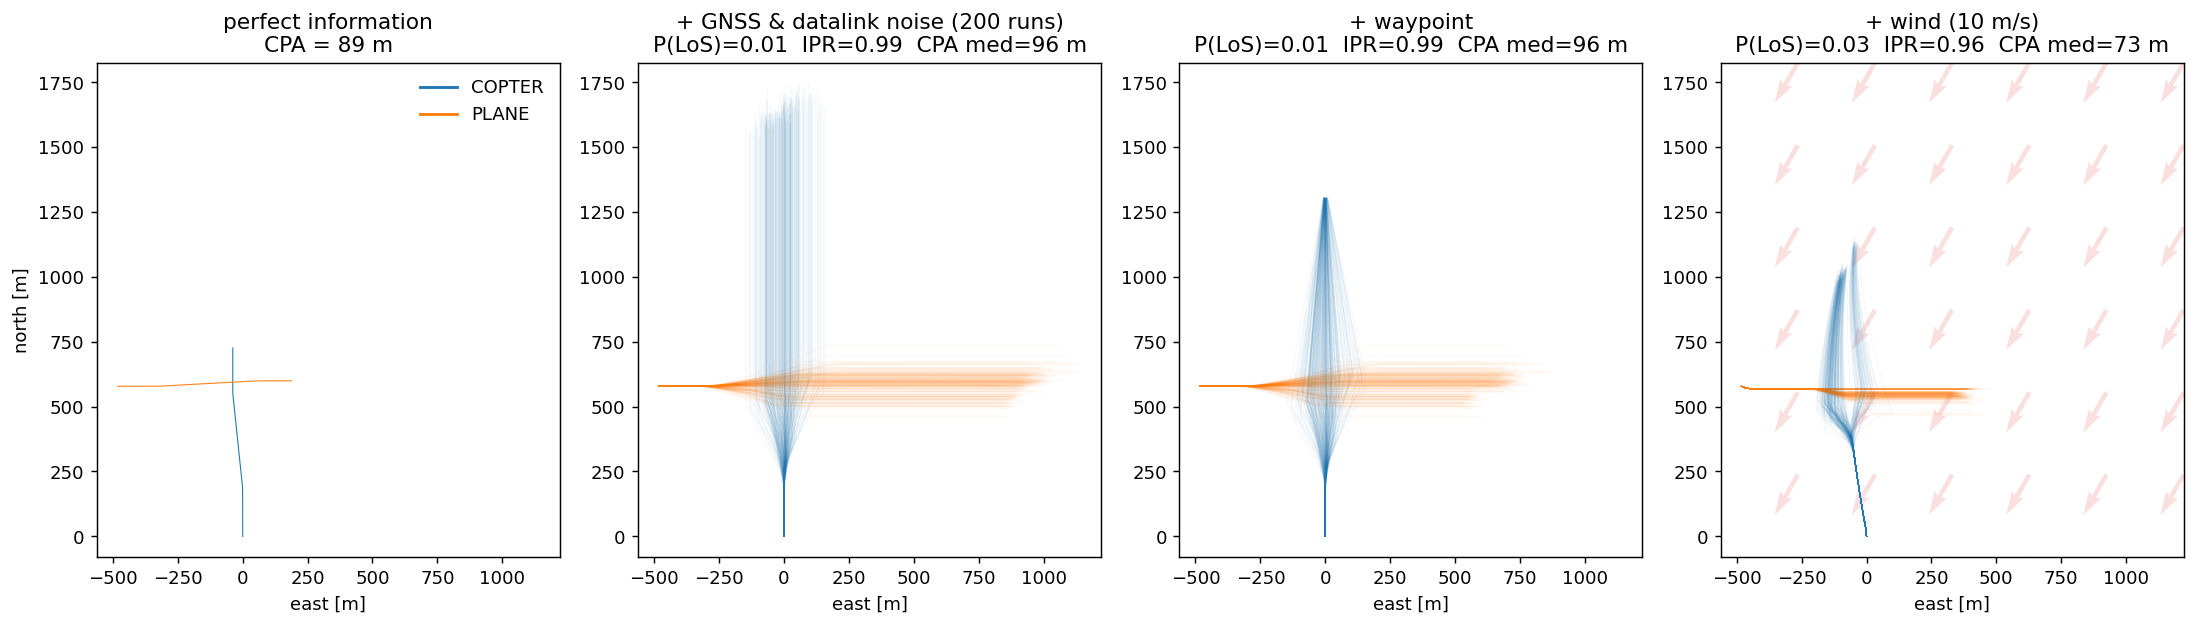
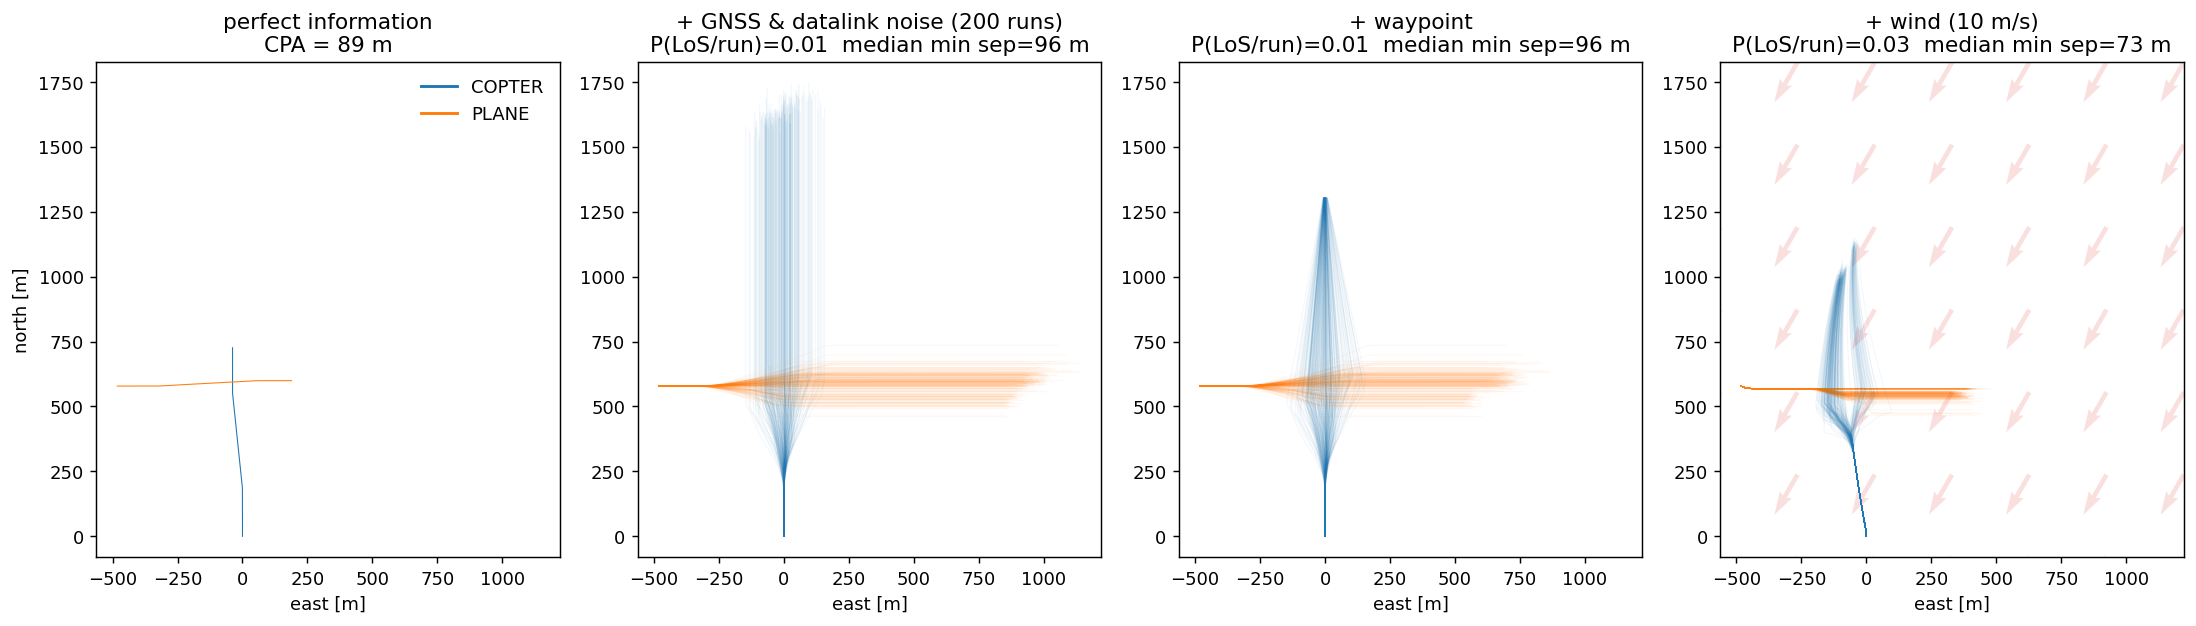
docs: the outward pages catch up with the cleanup
roadmap annotates its superseded v0.1 gate names rather than rewriting
them. The README speaks the estimator's vocabulary and its overview
figure is regenerated to match — which surfaced that the wind panel's
P(LoS/run) is 0.03, not the 0.04 that 1-IPR arithmetic suggests: the
old rate divided by n_conflict, the denominator ADR 0022 retired. The
clean-up charter's executed half is ticked off.

diff --git a/scripts/readme_overview.py b/scripts/readme_overview.py
@@ -138,7 +138,7 @@ def draw(panels: list[tuple[str, list[FleetOutcome]]], out: Path) -> None:
     for ax, (title, runs) in zip(axes, panels, strict=True):
         plot_pairwise_montecarlo(runs, ax=ax, title=title,
                                  alpha=1.0 if len(runs) == 1 else None)
-        if len(runs) == 1:  # a sweep's P(LoS)/IPR header says nothing about a single run
+        if len(runs) == 1:  # a sweep's P(LoS)/median-min-sep header says nothing about a single run
             ax.set_title(f"{title}\nCPA = {runs[0].min_sep:.0f} m")
         ax.set_xlabel("east [m]")  # the helper warns of an exaggerated axis; ours is true to scale
         ax.set_aspect("equal", adjustable="box")

diff --git a/TODO-clean-up-generalisation.md b/TODO-clean-up-generalisation.md
@@ -19,7 +19,7 @@ they are why "run a fleet study" is still not the same motion as "run a pairwise
 | 2 | `experiment.py:89` | `_GEOMETRY_SLOTS = {dpsi, dcpa, side, gs_intr}` — the declarable geometry vocabulary is a hardcoded pairwise allowlist. **Softened, not solved:** a scenario binds its own size at construction and is swept via the `scenario` axis, so this no longer blocks fleet work; it still means pairwise pins are privileged names. |
 | 3 | `config.py:17-29` (`ScenarioConfig`) | `dcpa_max` and `tlos` are **pairwise** encounter geometry, but live in the global `Config` every scenario must carry. |
 | 4 | `experiment.py` (`Methods.airframes`) | one `Airframe` per aircraft, "ownship first" — a 2-element convention. |
-| 5 | `estimator.py` (`pairwise`) | the two-aircraft builder lives *inside the estimator module* rather than beside the other scenarios. |
+| ~~5~~ | ~~`estimator.py` (`pairwise`)~~ | ✅ **DONE** (2026-08-07, cleanup) — `pairwise` lives in `scenario/pairwise.py` beside the `sample_pairwise` it wraps, and the estimator imports no scenario module at all. `EncounterBuilder` moved to `fleet.py` beside `Agent`. |
 
 ### ~~The sharp one: #1~~ — fixed, 2026-08-06
 
@@ -50,8 +50,16 @@ plan rather than here — see "Sequencing".
 
 ## Breaking up `experiment.py`
 
-**1018 lines** today. It already carries its own seams as `# ---` banners, and they map almost 1:1
-onto modules — the split is close to mechanical:
+✅ **DONE** (2026-08-07, cleanup) — split as sketched below, one module per banner:
+`declaration` (62 lines) / `backends` (47) / `methods` (63) / `conditions` (41) / `cell` (262,
+carries the one behavioural addition: `supports_splitting` is now validated at declaration) /
+`identity` (139) / `results` (146) / `card` (74) / `__init__` (the entry points, re-exporting
+everything so no import moved). `registry.py` moved in beside its only consumer. `identity.py` and
+`opencdarr/cache.py` are named per the note below: what a key is made of, versus the store. The
+only test edits the split needed were three monkeypatch retargets onto `experiment.cell`.
+
+**1018 lines** at the time of writing. It already carries its own seams as `# ---` banners, and
+they map almost 1:1 onto modules — the split is close to mechanical:
 
 | Lines | Banner | → module | ~size |
 |---|---|---|---|
@@ -81,7 +89,7 @@ Notes:
 
 ## `pairwise()` and `run_encounter` — half agreed
 
-### `pairwise()`: keep it, but move it
+### `pairwise()`: keep it, but move it — ✅ moved (2026-08-07)
 
 Not redundant — a two-aircraft encounter is a real research object, and it is the *only* geometry the
 published pairwise pages use. What is wrong is **where it lives**: `estimator.py`, as though the
@@ -95,7 +103,12 @@ belongs there beside `ring` and `traffic`, and `sample_pairwise` with it. Then:
 ...and the estimator imports none of them. That is the version where N genuinely stops being special:
 the estimator has no pairwise import at all, rather than one it happens not to default to.
 
-### `run_encounter`: probably delete — but it costs an oracle
+### `run_encounter`: probably delete — but it costs an oracle. ✅ Deleted (2026-08-07)
+
+Decided and done: **deleted**, the first branch below. Every `min_sep` anchor moved onto
+`run_fleet` bit-for-bit *before* the deletion — that green run was the equivalence proof executed
+one last time — and the goldens in `tests/test_estimator.py` guard the n = 2 reduction now.
+The original trade, for the record:
 
 `loop.py` is 331 lines and `run_fleet` at n = 2 reproduces it **bit-for-bit** (asserted in
 `tests/test_fleet.py`). As a runtime path it is dead weight: `estimate_p_los` and IPS both go through
@@ -134,13 +147,17 @@ Decide explicitly; do not let it rot into "kept because nobody dared".
 
 ## Sequencing
 
-- **Now (current plan):** finish the metric rewrite + reachable IPS parallelism.
-- **Pull forward?** #1 (IPS takes a builder) is a prerequisite for a fleet-capable item 4 campaign,
-  and it is small now that `EncounterBuilder` exists. Strong candidate to fold into the current plan
-  rather than defer.
-- **With item 3 (`scenario/` package):** relocate `pairwise` + `sample_pairwise`.
-- **After the plan lands:** the `experiment/` split (mechanical, tests unchanged), then
-  `Config`/`ScenarioConfig` separation, then the `run_encounter` decision.
+- ~~**Now (current plan):** finish the metric rewrite + reachable IPS parallelism.~~ ✅
+- ~~**Pull forward?** #1 (IPS takes a builder)~~ ✅ folded into the metric plan.
+- ~~**With item 3 (`scenario/` package):** relocate `pairwise` + `sample_pairwise`.~~ ✅
+- ~~**After the plan lands:** the `experiment/` split (mechanical, tests unchanged),~~ ✅ ~~then~~
+  `Config`/`ScenarioConfig` separation **still open**, ~~then the `run_encounter` decision~~ ✅
+  (deleted).
+
+What remains of this file after the 2026-08 cleanup: rows #2–#4 of the N = 2 table
+(`_GEOMETRY_SLOTS` as an allowlist, `dcpa_max`/`tlos` in the global `Config`, the "ownship first"
+airframe convention) and the `Config`/`ScenarioConfig` separation — the generalisation half, all
+behavioural, none of it file moves.
 
 Do the behavioural fixes first and the file moves last, so every move commit can prove itself by
 leaving the tests untouched.

diff --git a/docs/roadmap.md b/docs/roadmap.md
@@ -29,7 +29,11 @@ encounter + one CDR method + plain Monte Carlo.
 *Done:* an end-to-end run from `config + seed` reproduces a known anchor within MC error.
 *(how-to Steps 0–2.)*
 *Gate green:* `run_encounter` in `opencdarr/loop.py`, `run_one_experiment` in `experiment.py`
-(`config + seed + code-hash → result`), and `estimate_ipr` in `estimator.py`. The kinematics are
+(`config + seed + code-hash → result`), and `estimate_ipr` in `estimator.py`. All three v0.1 names
+have since been superseded: the pairwise runner was deleted once `run_fleet`
+(`opencdarr/fleet.py`) reproduced it bit for bit, `experiment.py` grew into the
+`opencdarr/experiment/` package, and the estimator reports `p_los_run` / `p_los_ac` through
+`estimate_p_los` (`opencdarr/estimate/`, ADR 0022). The kinematics are
 validated analytically (ADR 0002) and, for the multirotor, against a recorded
 [BlueSky](https://github.com/TUDelft-CNS-ATM/bluesky) trajectory (ADR 0005). `step_dynamics` itself
 became the `Kinematics` interface — see the note under *Pluggable kinematics* below.
@@ -47,14 +51,16 @@ up as an ADR: cooperative / priority / sequential).
 *Done:* reduces to the v0.1 pairwise result at N=2. *(how-to Step 4; reviewer item #1.)*
 *Gate green:* `run_fleet` / `FleetEnv` in `opencdarr/fleet.py`, with the layered-directed
 coordination model in ADR 0004. The N=2 reduction is asserted bit-for-bit — `tests/test_fleet.py`,
-and the `--verify-n2` check that `scripts/ipr_fleet_sweep.py` runs by default.
+and the `--verify-n2` check that `scripts/ipr_fleet_sweep.py` ran by default. That flag retired
+with the pairwise runner; the n = 2 anchors in `tests/test_fleet.py` are that check now.
 
 **v0.4 — Rare events.** The `advance` / `level` / `is_terminal` interface + Blom–Bakker
 interacting particle system (IPS).
 *Done:* IPS agrees with brute-force MC in a *not-too-rare* regime; collision probability is
 reported **with a confidence interval**. *(how-to Steps 5–6.)*
 *Gate green:* `opencdarr/ips.py` (levels and splitting, ADR 0017) and `opencdarr/parallel.py`
-(scheduling across particles and replications, ADR 0018). The agreement gate is written up in
+(scheduling across particles and replications, ADR 0018); both have since gathered into the
+`opencdarr/estimate/` subpackage. The agreement gate is written up in
 `vault/observations/ips-gate1-correctness.md`; the efficiency gate is
 `ips-gate2-efficiency.md`. The interval that gate reported has since been dropped (ADR 0022):
 the estimators are compared on the ratio of their estimates instead, and the script that ran
@@ -108,7 +114,7 @@ against Past-CPA / FTR / Probabilistic-FTR.
   math already vectorizes (`geo.forward` uses numpy ufuncs; the turn-rate limiter was
   vectorized in the BlueSky source we extracted from). For rare-event work the highest-value
   axis is batching across **particles** (each a small clonable world), then joblib across
-  CPUs — the joblib half of that already shipped as `opencdarr/parallel.py` (ADR 0018), which
+  CPUs — the joblib half of that already shipped as `opencdarr/estimate/parallel.py` (ADR 0018), which
   spreads an IPS run over particles *and* replications; the vectorized step below has not. Do it
   on a *measured* profile, not on spec (`design-philosophy.md`: purity wins until a measured
   bottleneck), in three steps:

diff --git a/README.md b/README.md
@@ -39,11 +39,12 @@ point of this platform.
 The same crossing, a multirotor heading north and a fixed-wing spawned straight into conflict, run
 four times, each panel adding a layer. **Perfect information:** one deterministic run, `MVP`
 resolves and `PastCPA` recovers, closest point of approach (CPA) 89 m. **GNSS and datalink noise:**
-200 noise realisations, intrusion prevention rate (IPR) 0.99 at a median CPA of 96 m. **Waypoint:**
-the multirotor re-intercepts its mission after avoiding, closing the spread at the same IPR.
-**Wind:** a steady 10 m/s (arrows point downwind) crabs both tracks and drops the IPR to 0.96, with
-the median CPA down to 73 m. All four panels share one set of axis limits, so the spread between
-them is the spread the model produces.
+200 noise realisations, a probability of loss of separation (LoS) of 0.01 per run, at a median
+minimum separation of 96 m. **Waypoint:** the multirotor re-intercepts its mission after avoiding,
+closing the spread at the same P(LoS). **Wind:** a steady 10 m/s (arrows point downwind) crabs
+both tracks and lifts P(LoS) to 0.03 per run, with the median minimum separation down to 73 m. All
+four panels share one set of axis limits, so the spread between them is the spread the model
+produces.
 
 Both figures come out of the shipped models. Regenerate the second with:
 
@@ -75,7 +76,7 @@ pip install -e ".[dev]"
 ## Test
 
 ```bash
-pytest        # run the test suite — 426 tests, green
+pytest        # run the test suite — 571 tests, green
 mypy          # type-check (strict; type hints everywhere)
 ruff check    # lint
 ```
